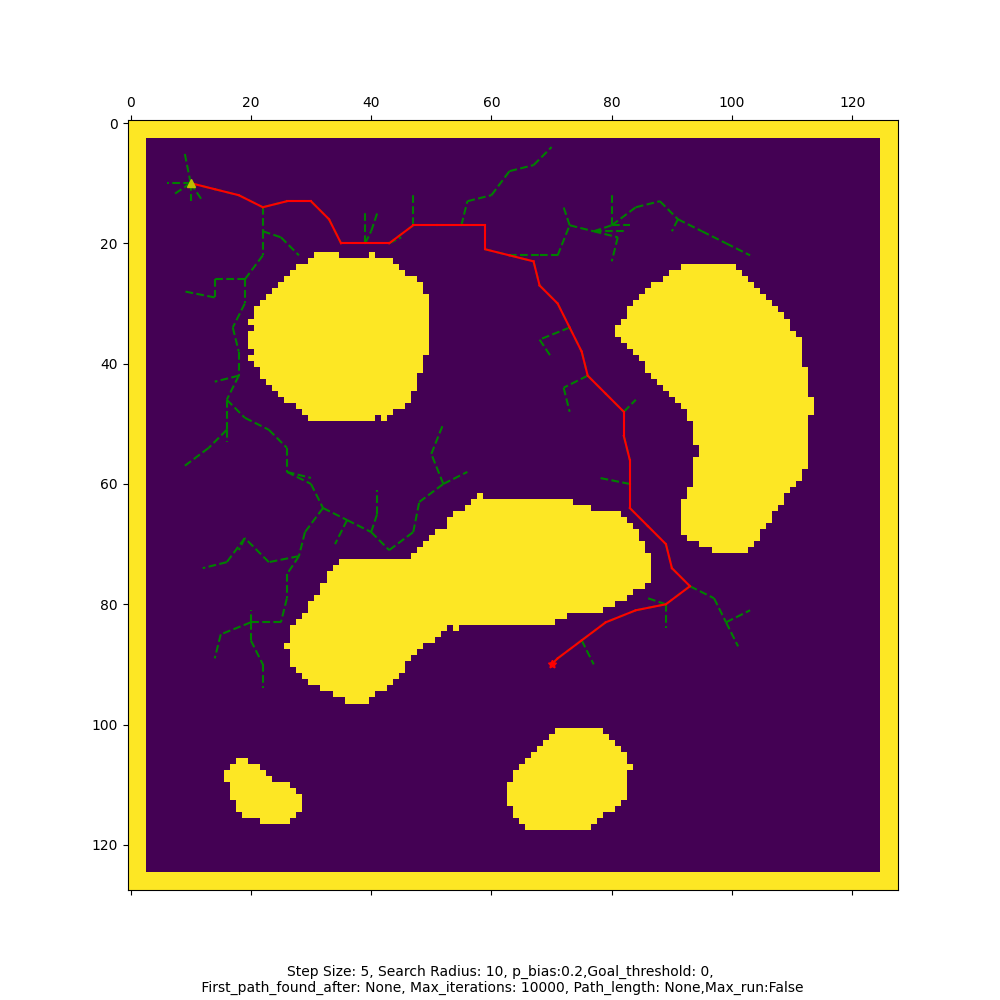
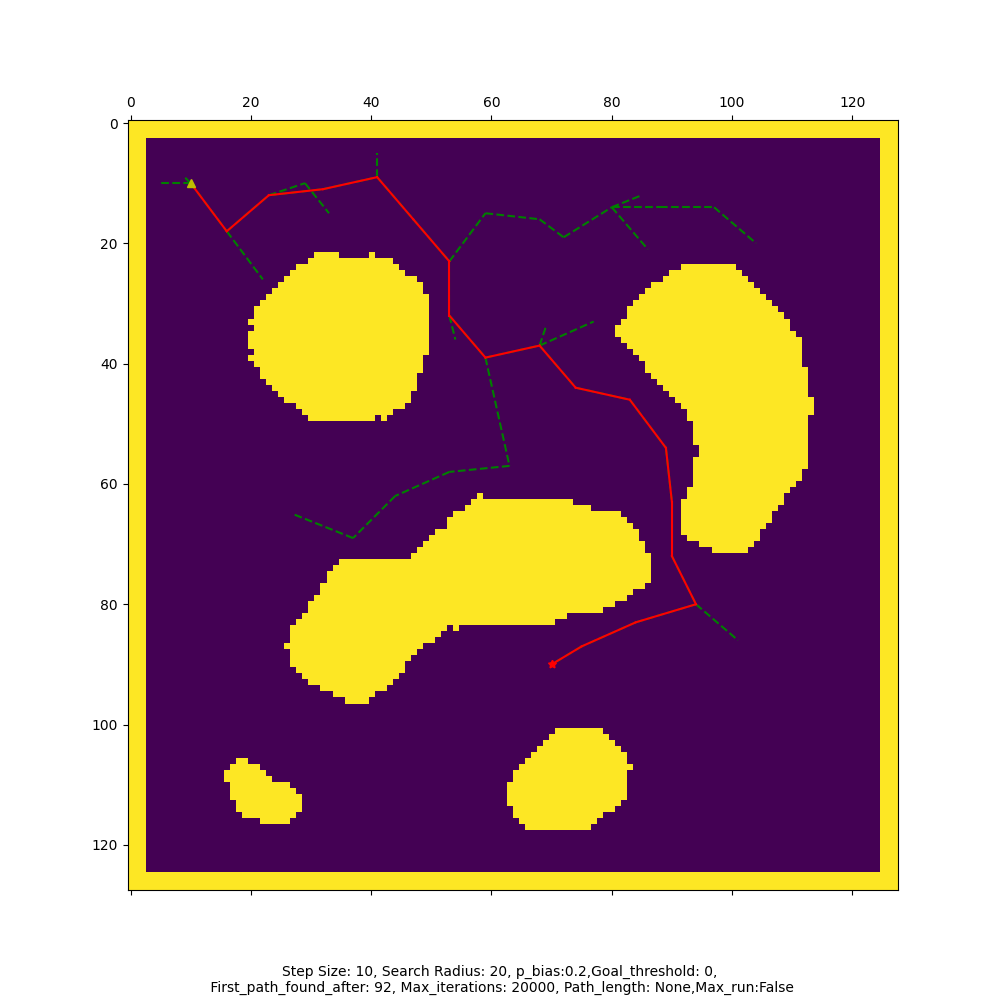
update graphs

diff --git a/Lab4/Lab4.py b/Lab4/Lab4.py
@@ -7,17 +7,17 @@ if __name__ == "__main__":
     
     rrt_star = False  # If true run RRT* else RRT 
 
-    max_run_rewire = True  # Run for max iteration
+    max_run_rewire = False  # Run for max iteration
     rewire = True   # Run rewire with first found path
     cost_optim = False #Run only Cost Optimization   
 
-    for i in [2]:# [0,1,2,3]:
+    for i in  [0,1,2,3]:
         # Choose a map 0-3
         map_number = i
         goal_threshold = 0  
         max_iter=20000
-        step_size=20
-        search_radius=40
+        step_size=10
+        search_radius=20
         p_bias=0.2
         caption = {
             "type":"rrt*" if rrt_star else "rrt",
@@ -56,6 +56,8 @@ if __name__ == "__main__":
             if not rrt_star:
                 #if no smoothing, the function will return 2 values
                 nodes,edges, ns_nodes, ns_edges = rrt.rrt(smooth_path=True) 
+                caption["first_pth_found_after"] = rrt.pth_found_after
+                caption["path_length"] = rrt.path_length
                 _,_,ns_path=grid.fill_path(ns_nodes, ns_edges)
                 _,_,path=grid.fill_path(nodes, edges)
                 grid.plot_with_smoothing(states=ns_nodes,edges=ns_edges,path=ns_path,goal=goal.coord,

diff --git a/Lab4/RRT.py b/Lab4/RRT.py
@@ -140,9 +140,8 @@ class RRT:
             # Check if the goal is reached
             if self.distance(qnew, self.goal) <= self.goal_threshold:
                 print("Goal reached")
-                if self.pth_found_after == None:
-                        print("Goal reached with rewire")
-                        self.pth_found_after=i 
+                if self.pth_found_after == None: 
+                    self.pth_found_after=i 
                 return self.tree, self.get_edges(self.tree)
 
         raise AssertionError("Path not found\n")
@@ -199,6 +198,7 @@ class RRT:
             if self.distance(qnew, self.goal) <= self.goal_threshold:
                 if not max_run:
                     print("Goal reached with rewire")
+                    self.pth_found_after=i 
                     return None,None,self.tree, self.get_edges(self.tree)
                 else:
                     if self.pth_found_after == None:
